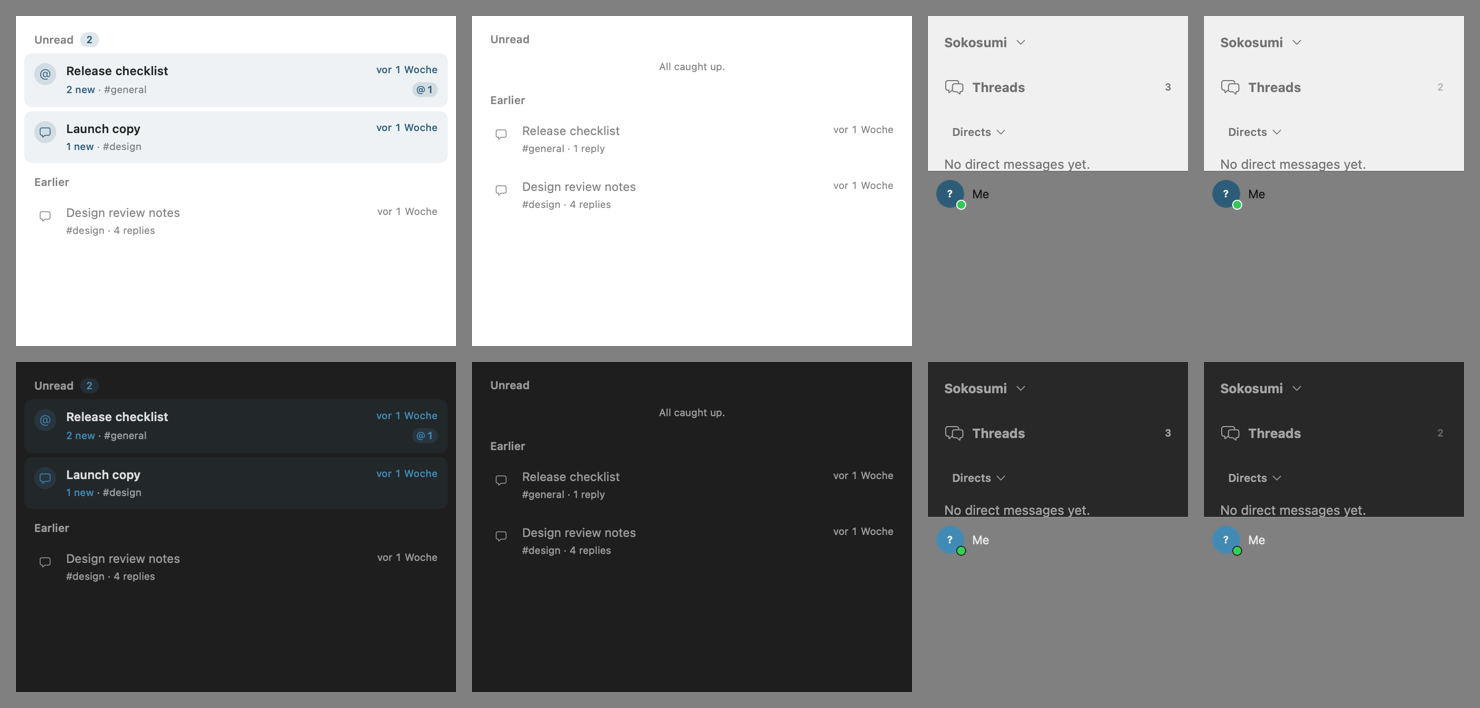
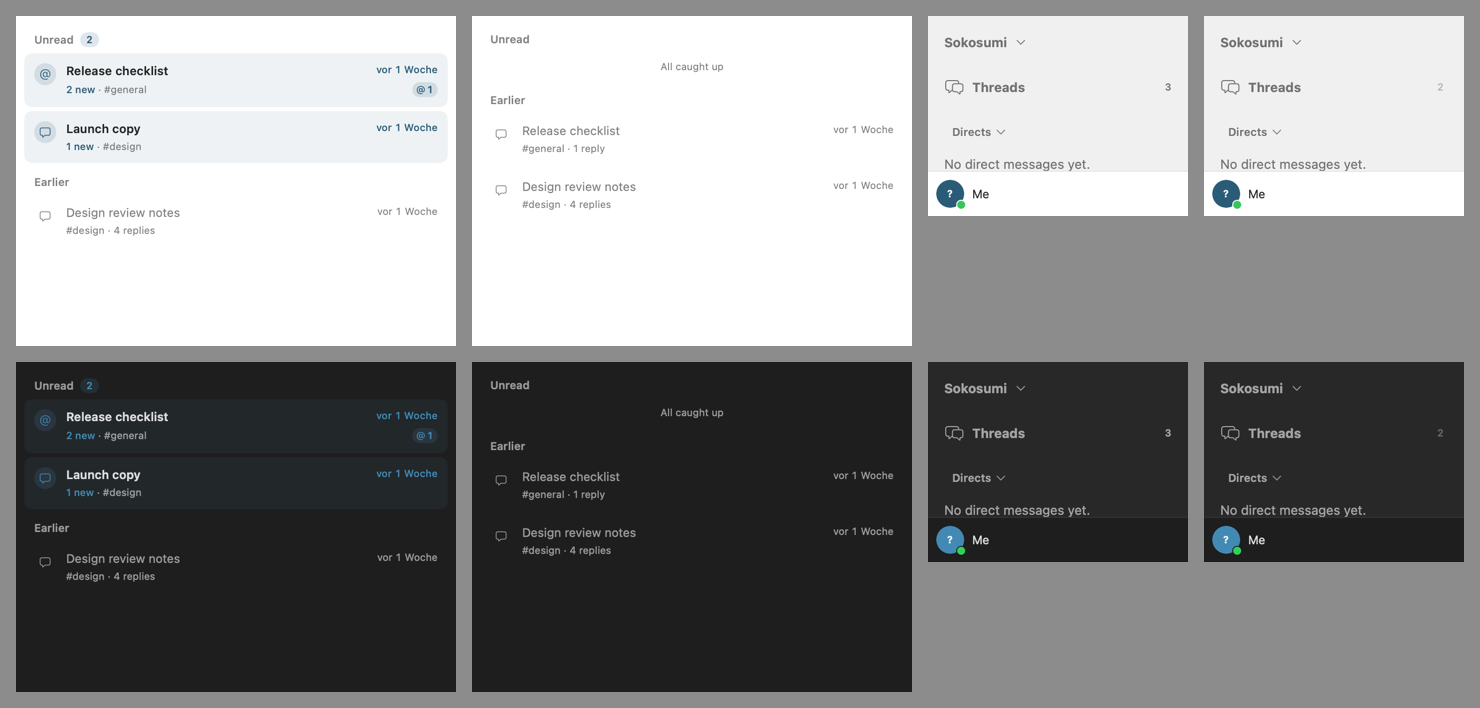
test(apple): render the Threads-row sidebar over the window background
The 24f1 Threads-row fixture hosted the sidebar with nothing behind it.
The account footer has no background of its own, so it recorded as
transparent pixels, and a viewer drew those as white. renderSidebar now
puts the window background behind the sidebar, the same fix the 24g1
fixture got. It also asserts an opaque footer that matches the
appearance. That assertion failed on the old fixture with alpha 0 in all
six renders.

cross-room-threads.png is re-rendered, and the slice 24f1 note is
corrected.

diff --git a/apps/apple/SokosumiTests/Chat/Threads/CrossRoomThreadsViewTests.swift b/apps/apple/SokosumiTests/Chat/Threads/CrossRoomThreadsViewTests.swift
@@ -166,9 +166,13 @@
         let state = WorkspaceState()
         state.rooms = rooms
         state.showThreadsView()
+        // The List paints its own background; the account footer below it has none, because in the app the
+        // split view's sidebar column shows through. Hosted bare, it would record as transparent pixels, so the
+        // fixture puts the appearance's window background behind the whole sidebar.
         let host = NSHostingView(rootView: ConversationSidebarView()
           .environmentObject(state).environmentObject(AuthState())
           .frame(width: 260, height: 200)
+          .background(.background)
           .environment(\.colorScheme, dark ? .dark : .light))
         let window = NSWindow(contentRect: NSRect(x: 0, y: 0, width: 260, height: 200), styleMask: [.titled], backing: .buffered, defer: false)
         window.appearance = NSAppearance(named: dark ? .darkAqua : .aqua)
@@ -187,6 +191,11 @@
         let bitmap = try #require(host.bitmapImageRepForCachingDisplay(in: host.bounds))
         host.cacheDisplay(in: host.bounds, to: bitmap)
         try Attachment.record(#require(bitmap.representation(using: .png, properties: [:])), named: name)
+        // The account footer below the List is drawn on the appearance's background, not left transparent: a
+        // viewer shows transparency as white, which hides the dark footer's light "Me".
+        let footer = try #require(bitmap.colorAt(x: bitmap.pixelsWide - 40, y: bitmap.pixelsHigh - 30)?.usingColorSpace(.deviceRGB))
+        #expect(footer.alphaComponent == 1, "Footer background alpha: \(footer.alphaComponent)")
+        #expect(dark ? footer.brightnessComponent < 0.5 : footer.brightnessComponent > 0.5, "Footer brightness: \(footer.brightnessComponent)")
         return bitmap
       }
 

diff --git a/apps/apple/PARITY.md b/apps/apple/PARITY.md
@@ -2084,7 +2084,7 @@ Tests (red first, then green):
 
 A regression the hosted tests caught: with a typed selection, the room rows' explicit `.tag` sat under `.badge` and `.contextMenu`, and nothing in the sidebar was selected (`OpenRoomAttentionTests` found no selected row; the String selection had matched the `ForEach` ids instead). The tag is now the rows' outermost modifier, and the Threads row test asserts that its row is the selected one.
 
-Render: the recorded images were inspected. Both groups: "Unread" with a "2" pill, the "Release checklist" row tinted with an `@` in its mark, "vor 1 Woche" in the accent (the test host's German locale), "2 new · #general" and an `@ 1` pill, "Launch copy" with "1 new · #design", then "Earlier" and "Design review notes" in secondary with "#design · 4 replies". Caught up: "Unread", "All caught up" centred, "Earlier" and two read rows, no tint. Sidebar: the Threads row above Directs, bold, with "3" in the trailing column, or the "2" mention badge instead. Light and dark; nothing clipped at 440 pt. [cross-room-threads.png](docs/images/cross-room-threads.png) is these renders at half size, light over dark. In the sidebar fixtures the selection material is hidden (`cacheDisplay` cannot composite it, as in `OpenRoomAttentionTests`), and the "Me" chip below the List falls outside the 200 pt frame's background in dark, a fixture artifact.
+Render: the recorded images were inspected. Both groups: "Unread" with a "2" pill, the "Release checklist" row tinted with an `@` in its mark, "vor 1 Woche" in the accent (the test host's German locale), "2 new · #general" and an `@ 1` pill, "Launch copy" with "1 new · #design", then "Earlier" and "Design review notes" in secondary with "#design · 4 replies". Caught up: "Unread", "All caught up" centred, "Earlier" and two read rows, no tint. Sidebar: the Threads row above Directs, bold, with "3" in the trailing column, or the "2" mention badge instead. Light and dark; nothing clipped at 440 pt. [cross-room-threads.png](docs/images/cross-room-threads.png) is these renders at half size, light over dark. In the sidebar fixtures the selection material is hidden (`cacheDisplay` cannot composite it, as in `OpenRoomAttentionTests`), and the "Me" chip below the List fell outside the 200 pt frame's background in dark, a fixture artifact. Corrected in [#5166](https://github.com/masumi-network/sokosumi/pull/5166) (row 24g1): the sidebar fixture hosted the view with nothing behind it, so the footer, which has no background of its own, recorded as transparent pixels. `renderSidebar` now puts the window background behind the sidebar and asserts an opaque footer that matches the appearance. That assertion failed first on the old fixture, with alpha 0 in all six renders. The image was re-rendered.
 
 Verification (all from `apps/apple`, on `91a005760` plus this change):
 - `xcodebuild test -workspace Sokosumi.xcworkspace -scheme Sokosumi -configuration Debug -destination 'platform=macOS,arch=arm64' -skipPackagePluginValidation DEVELOPMENT_TEAM= CODE_SIGN_IDENTITY=- -enableCodeCoverage NO` — TEST SUCCEEDED on the first run; xcresult summary 1203 tests, 1203 passed, 0 failed, 0 skipped (`SokosumiTests` 216, Chat 765, Auth 35, Realtime 48, Workspace 138, CoreAPI 1). None of the known load-flaky tests failed.
